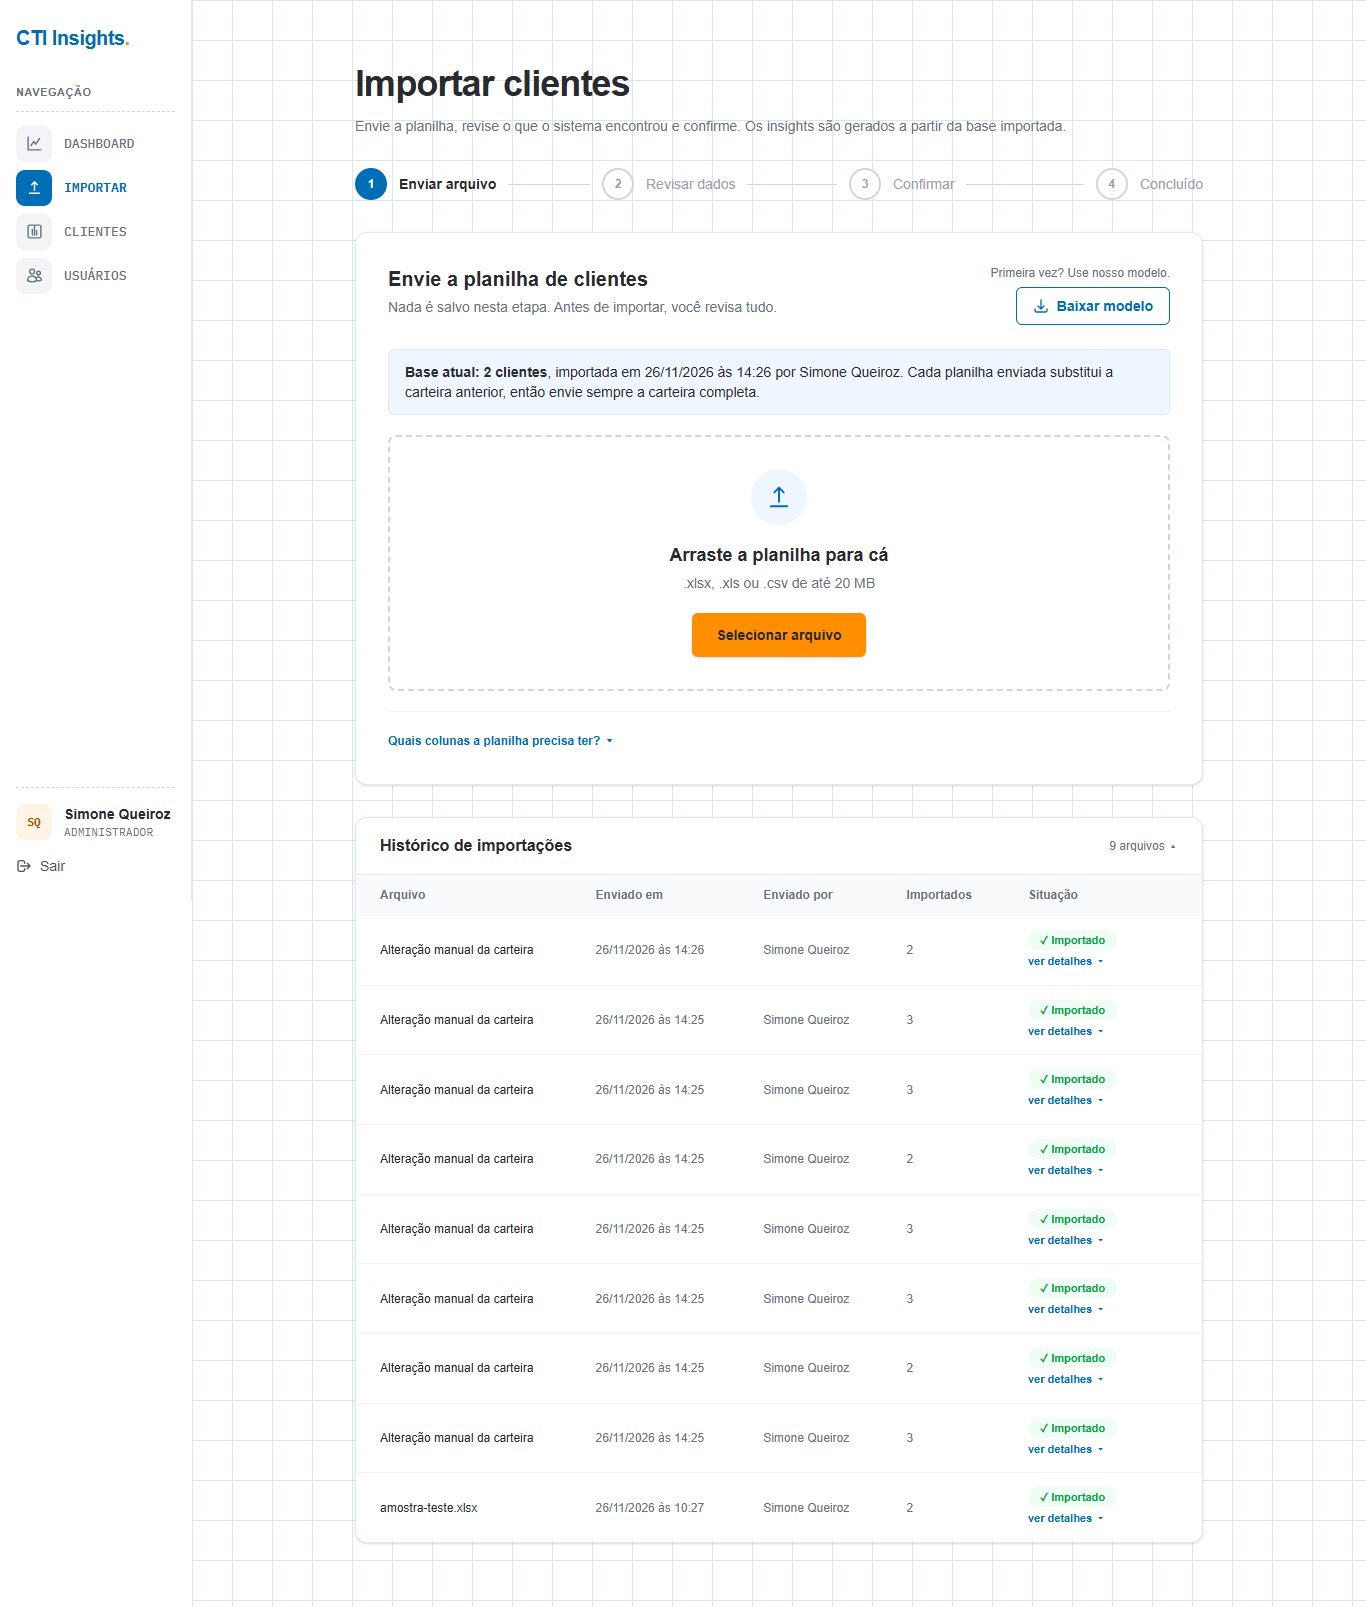
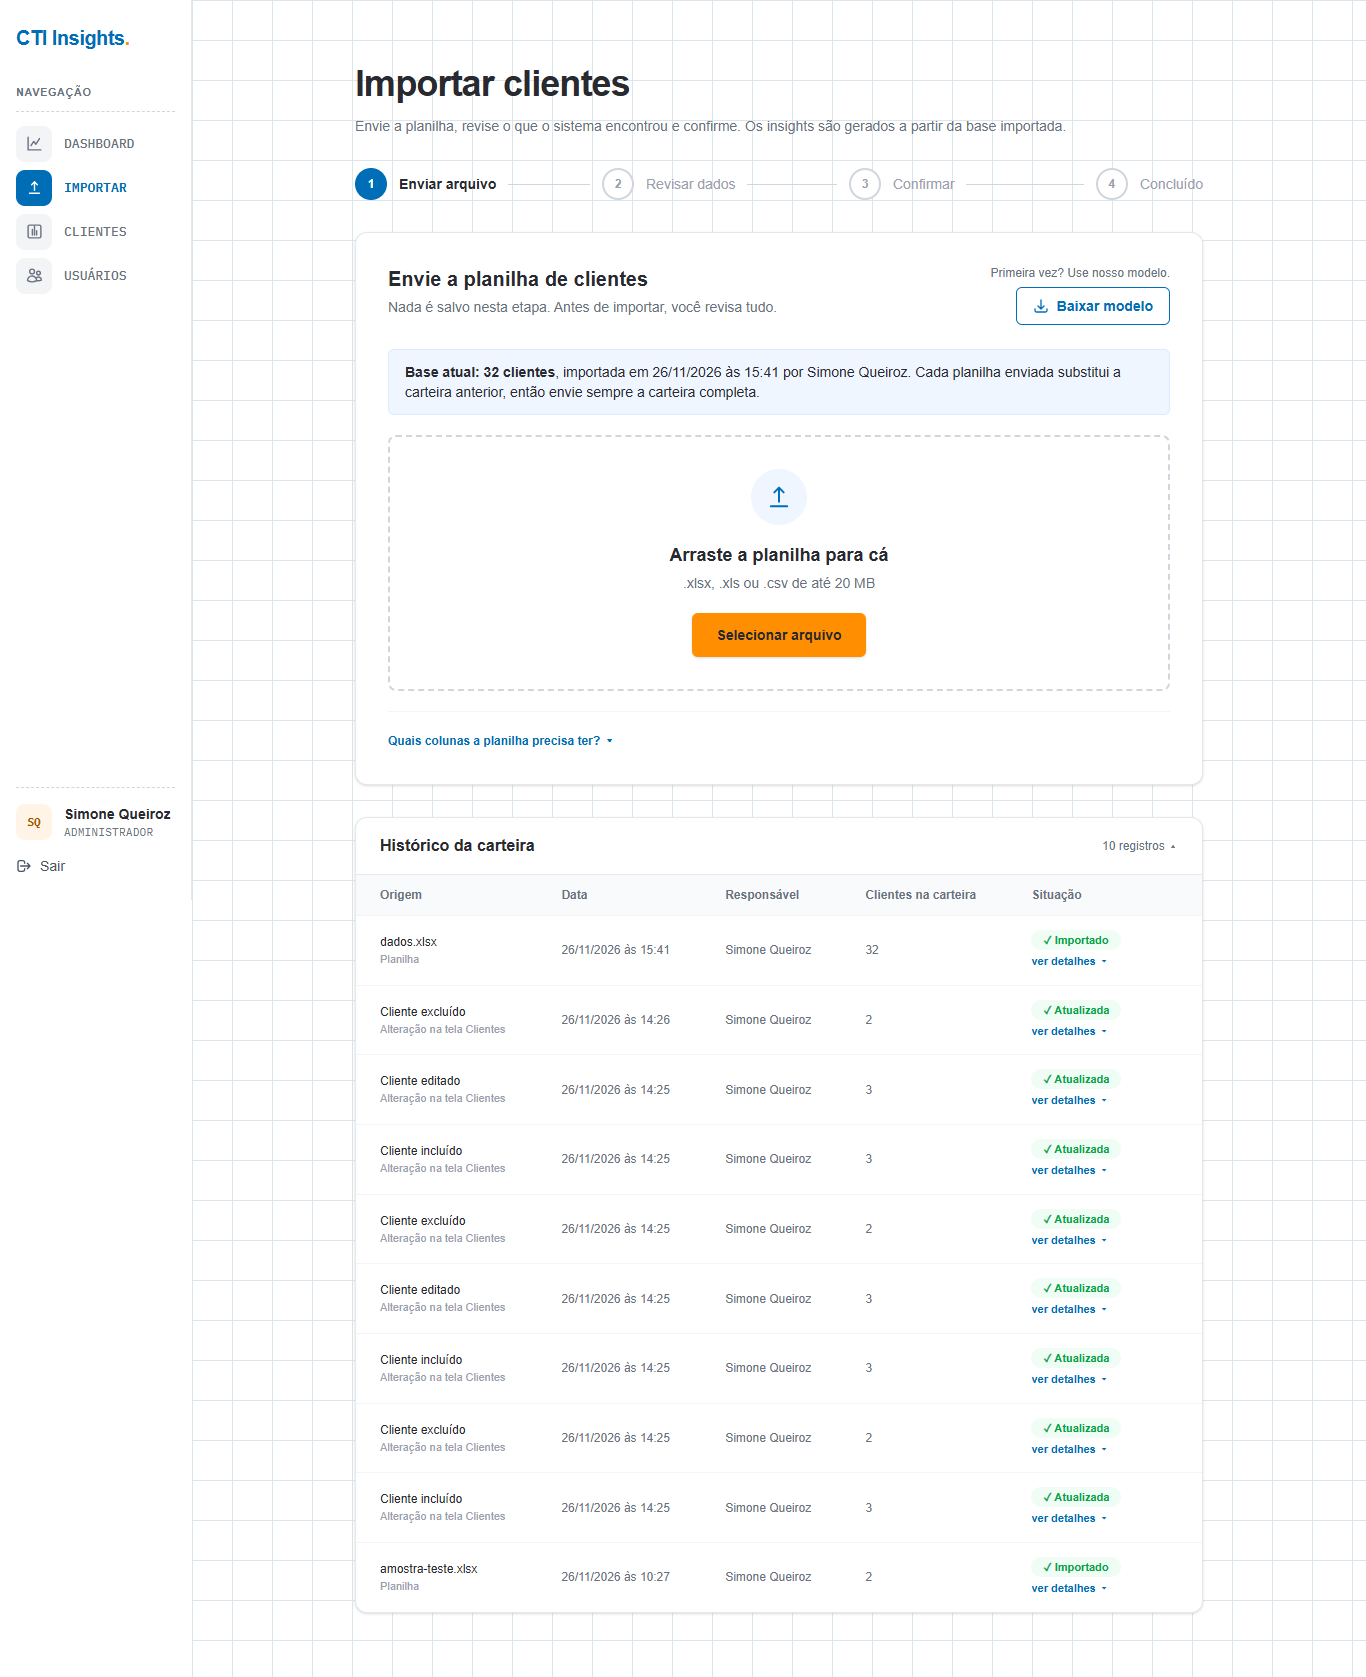
fix(front): importação mais clara e upsell do Python no Dashboard
- histórico separa planilhas de alterações na tela Clientes (incluído,
  editado, excluído); colunas Origem, Data, Responsável e Clientes na
  carteira; detalhe de sucesso em verde e sem o termo ETL
- tela final separa linhas com erro, segmentos descartados e clientes que
  saíram da carteira, um aviso por linha
- ajuda e modelo da planilha listam os segmentos aceitos
- prévia marca "será descartado" no cliente com segmento não reconhecido
- aviso de que o processamento leva alguns segundos
- corrige o Dashboard, que quebrava ao exibir as oportunidades de upsell
  vindas do Python (formato diferente do modo simulado)
- evidências refeitas com a planilha de aula do professor (32 clientes)

diff --git a/frontend-vue/src/components/importacao/HistoricoEnvios.vue b/frontend-vue/src/components/importacao/HistoricoEnvios.vue
@@ -25,9 +25,27 @@ const alternarDetalhes = id => {
   detalhesAbertos.value = abertos
 }
 
+// O histórico registra planilhas e também as alterações feitas na tela
+// Clientes (o Spring informa o tipo em tipoOperacao)
+const ALTERACOES_MANUAIS = {
+  CRIACAO_CLIENTE: 'Cliente incluído',
+  EDICAO_CLIENTE: 'Cliente editado',
+  EXCLUSAO_CLIENTE: 'Cliente excluído'
+}
+
+const ehManual = item => Boolean(ALTERACOES_MANUAIS[item.tipoOperacao])
+
+const origem = item => ehManual(item)
+  ? { titulo: ALTERACOES_MANUAIS[item.tipoOperacao], detalhe: 'Alteração na tela Clientes' }
+  : { titulo: item.nomeArquivo, detalhe: 'Planilha' }
+
 const statusInfo = item => {
   if (item.status === 'PROCESSANDO') {
     return { texto: 'Processando...', classe: 'bg-orange-50 text-[#A85700]' }
+  }
+
+  if (item.status === 'NORMALIZADO' && ehManual(item)) {
+    return { texto: '✓ Atualizada', classe: 'bg-green-50 text-green-600' }
   }
 
   if (item.status === 'NORMALIZADO') {
@@ -53,9 +71,9 @@ const statusInfo = item => {
         aria-controls="historico-conteudo"
         @click="aberto = !aberto"
       >
-        <span class="text-base font-bold text-[#292A2F]">Histórico de importações</span>
+        <span class="text-base font-bold text-[#292A2F]">Histórico da carteira</span>
         <span class="text-xs text-gray-500">
-          {{ upload.historico.length }} {{ upload.historico.length === 1 ? 'arquivo' : 'arquivos' }}
+          {{ contar(upload.historico.length, 'registro', 'registros') }}
           <span aria-hidden="true">{{ aberto ? '▴' : '▾' }}</span>
         </span>
       </button>
@@ -71,14 +89,14 @@ const statusInfo = item => {
 
       <div v-else class="relative overflow-x-auto">
         <table class="w-full min-w-[760px] text-left text-xs">
-          <caption class="sr-only">Planilhas enviadas, da mais recente para a mais antiga</caption>
+          <caption class="sr-only">Planilhas enviadas e alterações na carteira, da mais recente para a mais antiga</caption>
 
           <thead class="bg-gray-50 text-gray-500">
             <tr>
-              <th scope="col" class="px-6 py-3 font-semibold">Arquivo</th>
-              <th scope="col" class="px-6 py-3 font-semibold">Enviado em</th>
-              <th scope="col" class="px-6 py-3 font-semibold">Enviado por</th>
-              <th scope="col" class="px-6 py-3 font-semibold">Importados</th>
+              <th scope="col" class="px-6 py-3 font-semibold">Origem</th>
+              <th scope="col" class="px-6 py-3 font-semibold">Data</th>
+              <th scope="col" class="px-6 py-3 font-semibold">Responsável</th>
+              <th scope="col" class="px-6 py-3 font-semibold">Clientes na carteira</th>
               <th scope="col" class="px-6 py-3 font-semibold">Situação</th>
               <th scope="col" class="px-6 py-3 font-semibold"><span class="sr-only">Ações</span></th>
             </tr>
@@ -87,7 +105,10 @@ const statusInfo = item => {
           <tbody>
             <template v-for="item in upload.historico" :key="item.id">
               <tr class="border-t border-gray-100 transition-colors hover:bg-gray-50">
-                <th scope="row" class="px-6 py-4 font-medium text-[#292A2F]">{{ item.nomeArquivo }}</th>
+                <th scope="row" class="px-6 py-4 font-medium text-[#292A2F]">
+                  {{ origem(item).titulo }}
+                  <span class="mt-0.5 block text-[11px] font-normal text-gray-400">{{ origem(item).detalhe }}</span>
+                </th>
 
                 <td class="px-6 py-4 text-gray-500">
                   <time :datetime="item.dataHora">{{ formatarDataHora(item.dataHora) }}</time>
@@ -157,8 +178,12 @@ const statusInfo = item => {
                     :problemas="item.problemas"
                     :total="item.totalProblemas"
                   />
-                  <p v-else class="rounded-md border border-red-200 bg-white px-3 py-2 text-xs text-red-700">
-                    {{ item.mensagem }}
+                  <p
+                    v-else
+                    class="rounded-md border bg-white px-3 py-2 text-xs"
+                    :class="item.status === 'NORMALIZADO' ? 'border-green-200 text-green-700' : 'border-red-200 text-red-700'"
+                  >
+                    {{ item.mensagem.replace(/^ETL concluído/, 'Processamento concluído') }}
                   </p>
                 </td>
               </tr>

diff --git a/frontend-vue/src/components/importacao/EtapaConcluido.vue b/frontend-vue/src/components/importacao/EtapaConcluido.vue
@@ -6,7 +6,7 @@ import { contar, formatarNumero } from '../../utils/datas'
 import { gerarInsights } from '../../utils/insights'
 
 // Etapa 4: confirma o que entrou e já mostra os primeiros insights.
-defineProps({
+const props = defineProps({
   registro: { type: Object, required: true }
 })
 
@@ -14,6 +14,21 @@ const emit = defineEmits(['nova'])
 const clientes = useClientesStore()
 
 const insights = computed(() => USAR_MOCK ? gerarInsights(clientes.lista) : [])
+
+const avisos = computed(() => {
+  const r = props.registro
+  const lista = []
+  if (r.linhasIgnoradas) {
+    lista.push(r.linhasIgnoradas === 1 ? '1 linha com erro ficou de fora.' : `${formatarNumero(r.linhasIgnoradas)} linhas com erro ficaram de fora.`)
+  }
+  if (r.descartadosSegmento) {
+    lista.push(r.descartadosSegmento === 1 ? '1 cliente com segmento não reconhecido foi descartado.' : `${formatarNumero(r.descartadosSegmento)} clientes com segmento não reconhecido foram descartados.`)
+  }
+  if (r.clientesForaDaPlanilha) {
+    lista.push(r.clientesForaDaPlanilha === 1 ? '1 cliente da carteira anterior não estava na planilha e saiu da carteira.' : `${formatarNumero(r.clientesForaDaPlanilha)} clientes da carteira anterior não estavam na planilha e saíram da carteira.`)
+  }
+  return lista
+})
 </script>
 
 <template>
@@ -29,13 +44,11 @@ const insights = computed(() => USAR_MOCK ? gerarInsights(clientes.lista) : [])
         </h2>
         <p class="mt-1 text-sm text-gray-500">
           {{ registro.nomeArquivo }} · o Dashboard já está atualizado.
-          <template v-if="registro.linhasIgnoradas">
-            {{ registro.linhasIgnoradas === 1 ? '1 linha com erro ficou de fora.' : `${formatarNumero(registro.linhasIgnoradas)} linhas com erro ficaram de fora.` }}
-          </template>
-          <template v-if="registro.clientesForaDaPlanilha">
-            {{ registro.clientesForaDaPlanilha === 1 ? '1 cliente da carteira anterior não estava na planilha e saiu da carteira.' : `${formatarNumero(registro.clientesForaDaPlanilha)} clientes da carteira anterior não estavam na planilha e saíram da carteira.` }}
-          </template>
         </p>
+        <!-- Um aviso por linha: cada motivo de ficar de fora é diferente -->
+        <ul v-if="avisos.length" class="mt-2 space-y-1 text-sm text-amber-800">
+          <li v-for="aviso in avisos" :key="aviso">{{ aviso }}</li>
+        </ul>
       </div>
     </header>
 

diff --git a/frontend-vue/src/components/PreviaClientes.vue b/frontend-vue/src/components/PreviaClientes.vue
@@ -5,7 +5,10 @@ import { ESTILO_NIVEL, temRegistroEtl } from '../utils/resumoEtl'
 // Tabela paginada da base tratada. Células que o tratamento alterou ficam
 // sublinhadas, com o valor original logo abaixo (visível também no celular).
 const props = defineProps({
-  clientes: { type: Array, required: true }
+  clientes: { type: Array, required: true },
+  // Segmentos que o Python descarta (modo API): a linha ganha o aviso
+  // "será descartado", para a prévia não prometer o que não vai entrar
+  segmentosDescartados: { type: Array, default: () => [] }
 })
 
 const ITENS_POR_PAGINA = 10
@@ -143,6 +146,10 @@ const formatarData = iso => {
                 v-if="corrigido(cliente, 'segmento')"
                 class="mt-0.5 block text-[11px] text-gray-500"
               >era: {{ cliente.etl_original.segmento }}</span>
+              <span
+                v-if="segmentosDescartados.includes(cliente.segmento)"
+                class="mt-1 inline-block rounded-full bg-amber-100 px-2 py-0.5 text-[10px] font-semibold text-amber-800"
+              >será descartado</span>
             </td>
 
             <td class="px-4 py-3">

diff --git a/frontend-vue/src/components/importacao/EtapaEnviar.vue b/frontend-vue/src/components/importacao/EtapaEnviar.vue
@@ -3,7 +3,7 @@ import { computed, ref } from 'vue'
 import { useClientesStore } from '../../stores/clientesStore'
 import { useUploadStore } from '../../stores/uploadStore'
 import { contar, formatarDataHora } from '../../utils/datas'
-import { formatarTamanho, TAMANHO_MAXIMO_MB } from '../../utils/etl'
+import { formatarTamanho, SEGMENTOS_VALIDOS, TAMANHO_MAXIMO_MB } from '../../utils/etl'
 import { baixarModelo } from '../../utils/modeloPlanilha'
 
 // Etapa 1: escolher o arquivo e pedir a análise. Nada é salvo aqui.
@@ -21,7 +21,7 @@ const COLUNAS_OBRIGATORIAS = [
   ['Código do cliente', 'codigo_cliente', 'sem repetir'],
   ['Nome do cliente', 'nome_cliente', ''],
   ['Consultor', 'consultor', ''],
-  ['Segmento', 'segmento', ''],
+  ['Segmento', 'segmento', `um destes: ${SEGMENTOS_VALIDOS.join(', ')}. Grafias como "IND." ou "comercio" são corrigidas sozinhas`],
   ['Nível', 'nivel_cliente', 'A, B ou C'],
   ['Faturamento anual', 'faturamento_anual', 'número, sem valor negativo'],
   ['Serviços contratados', 'servicos_contratados', 'se forem vários, separe com ";"'],

diff --git a/frontend-vue/src/utils/modeloPlanilha.js b/frontend-vue/src/utils/modeloPlanilha.js
@@ -1,3 +1,5 @@
+import { SEGMENTOS_VALIDOS } from './etl'
+
 // Gera o modelo de planilha que o consultor baixa antes do primeiro envio.
 export const COLUNAS_MODELO = [
   'consultor',
@@ -24,7 +26,7 @@ export const baixarModelo = async () => {
     ['consultor', 'Sim', 'Nome do consultor responsável', 'Maria Souza'],
     ['codigo_cliente', 'Sim', 'Código único do cliente', 'CLI-001'],
     ['nome_cliente', 'Sim', 'Razão social ou nome fantasia', 'Empresa Exemplo Ltda'],
-    ['segmento', 'Sim', 'Ex.: Indústria, Comércio, Serviços', 'Indústria'],
+    ['segmento', 'Sim', `Um destes: ${SEGMENTOS_VALIDOS.join(', ')}. Outro segmento é descartado na importação.`, 'Indústria'],
     ['nivel_cliente', 'Sim', 'Somente A, B ou C', 'A'],
     ['data_contratacao', 'Sim', 'Data no formato dd/mm/aaaa', '15/03/2026'],
     ['servicos_contratados', 'Sim', 'Um ou mais serviços; se forem vários, separe com ";"', 'Link Dedicado;Firewall'],

diff --git a/frontend-vue/src/views/Dashboard.vue b/frontend-vue/src/views/Dashboard.vue
@@ -533,7 +533,20 @@ const upsell = computed(() => {
   const codigos = new Set(clientesFiltrados.value.map(cliente => cliente.codigo_cliente))
   return {
     segmentoPotencial: salvo?.segmentoPotencial ?? null,
-    oportunidades: (salvo?.oportunidades ?? []).filter(item => codigos.has(item.codigo))
+    // O Python devolve { codigo, nome, consultor, segmento, faturamento,
+    // motivos }; a tabela usa o mesmo formato do modo mock: { cliente, motivos }
+    oportunidades: (salvo?.oportunidades ?? [])
+      .filter(item => codigos.has(item.codigo))
+      .map(item => ({
+        cliente: {
+          codigo_cliente: item.codigo,
+          nome_cliente: item.nome,
+          consultor: item.consultor,
+          segmento: item.segmento,
+          faturamento: item.faturamento
+        },
+        motivos: item.motivos ?? []
+      }))
   }
 })
 

diff --git a/frontend-vue/src/stores/uploadStore.js b/frontend-vue/src/stores/uploadStore.js
@@ -239,9 +239,13 @@ export const useUploadStore = defineStore('upload', {
           this.historico = [item, ...this.historico.filter(envio => envio.id !== item.id)]
           this.descartarArquivo()
           await useClientesStore().carregar().catch(() => {})
+          // A tela final separa os motivos: linhas com erro (vistas na
+          // revisão) e clientes descartados por segmento não reconhecido
           return {
             ...item,
-            linhasIgnoradas: item.linhasLidas - item.linhasImportadas
+            linhasIgnoradas: analise.linhasComErro.length,
+            descartadosSegmento: analise.validos.length - analise.entramNaCarteira,
+            clientesForaDaPlanilha: analise.foraDaPlanilha.length
           }
         }
 

diff --git a/frontend-vue/src/components/importacao/EtapaConfirmar.vue b/frontend-vue/src/components/importacao/EtapaConfirmar.vue
@@ -139,5 +139,14 @@ const nomesForaDaPlanilha = computed(() => listarNomes(analise.value.foraDaPlani
         {{ upload.carregando ? 'Importando...' : `${analise.importacaoAnterior ? 'Reimportar' : 'Importar'} ${contar(analise.entramNaCarteira, 'cliente', 'clientes')}` }}
       </button>
     </footer>
+
+    <p
+      v-if="upload.carregando"
+      role="status"
+      class="text-right text-xs text-gray-500"
+    >
+      Padronizando, calculando os indicadores e gravando a carteira. Isso pode levar alguns segundos,
+      um pouco mais no primeiro acesso do dia.
+    </p>
   </section>
 </template>

diff --git a/frontend-vue/src/components/importacao/EtapaRevisar.vue b/frontend-vue/src/components/importacao/EtapaRevisar.vue
@@ -183,7 +183,10 @@ const trocarArquivo = () => {
       <p class="mb-3 mt-1 text-xs text-gray-500">
         Total: {{ contar(upload.totalClientes, 'cliente', 'clientes') }} · Nível A: {{ formatarNumero(upload.clientesNivelA) }}
       </p>
-      <PreviaClientes :clientes="analise.validos" />
+      <PreviaClientes
+        :clientes="analise.validos"
+        :segmentos-descartados="USAR_MOCK ? [] : analise.segmentosNaoReconhecidos.map(s => s.valor)"
+      />
     </div>
 
     <!-- Avisos que impedem continuar -->

diff --git a/evidencias/entrega-final/README.md b/evidencias/entrega-final/README.md
@@ -3,7 +3,8 @@
 Prints e resultados de testes do CTI Insights rodando de ponta a ponta:
 Vue 3, Spring Boot, Python (FastAPI e pandas) e PostgreSQL no Neon.
 Todos os prints foram tirados em 26/11/2026, no Chrome, com **dados
-fictícios**. Desktop em 1366 px e celular em 390 px.
+fictícios**: a carteira é a planilha de aula do professor (`dados.xlsx`, 32
+clientes). Desktop em 1366 px e celular em 390 px.
 
 ## Telas
 
@@ -35,6 +36,8 @@ fictícios**. Desktop em 1366 px e celular em 390 px.
 | `h02-tempo-dashboard.txt` | H02: dashboard completo em cerca de 0,25 s (meta: até 10 s) |
 | `front-chrome.txt` | Front contra a API real: 8 de 8 |
 | `login-chrome.txt` | Tela de login: 11 de 11 |
+| `importacao-chrome.txt` | Importação: histórico, segmentos aceitos, prévia, aviso de tempo e tela final: 11 de 11 |
+| `planilha-professor.txt` | Planilha de aula do professor: 36 linhas lidas, 25 corrigidas sozinhas, os 4 erros intencionais recusados, 32 clientes |
 | `menu-lateral-chrome.txt` | Menu lateral: fixo ao rolar, tablet e hambúrguer do celular: 14 de 14 |
 | `edicao-cliente-chrome.txt` | Inclusão, edição e exclusão de cliente com recálculo do dashboard: 11 de 11 |
 | `front-lint-build.txt` | `npm run lint` sem erros e `npm run build` concluído |

diff --git a/docs/RELATORIO-FINAL.md b/docs/RELATORIO-FINAL.md
@@ -79,6 +79,10 @@ tabela dinâmica.
   serviços (ex.: "Faturamento acima da mediana do segmento, com poucos
   serviços: 1 contra média de 1,5").
 
+Com a planilha de aula do professor (32 clientes fictícios), o sistema apontou
+7 clientes com oportunidade, cada um com o motivo. Ex.: "71% do segmento
+Indústria tem Firewall; este cliente não tem".
+
 **Conclusão:** confirmada com dados fictícios. A utilidade real depende de
 testar com a carteira verdadeira da CTI.
 
@@ -119,6 +123,8 @@ não forçou uma implementação que não existe.
 | Front no Chrome: servidor fora do ar, senha errada, login, gráficos, celular a 390 px e logout | 8 de 8 |
 | Inclusão, edição e exclusão de cliente com recálculo do dashboard | 11 de 11 |
 | H01: 100 registros com erros propositais (`analytics-python/teste_h01.py`) | 94 de 94 grafias previstas padronizadas |
+| Planilha de aula do professor (`dados.xlsx`, 36 linhas com erros intencionais) | 25 linhas corrigidas sozinhas, os 4 erros intencionais recusados com o motivo, 32 clientes importados |
+| Importação: histórico, prévia, aviso de tempo e tela final | 11 de 11 |
 | Back-end (`mvnw test`, com a suíte de integração no Neon) | 5 de 5 |
 | Front (`npm run lint` e `npm run build`) | Sem erros |
 
